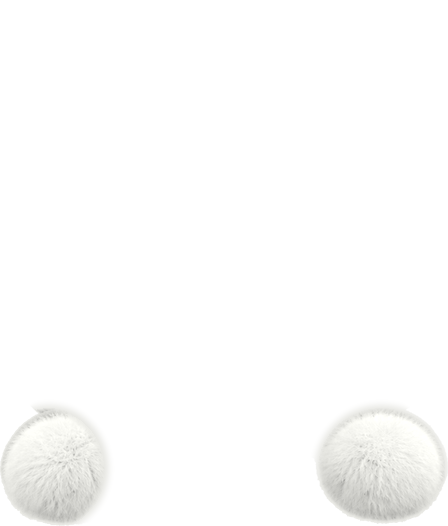
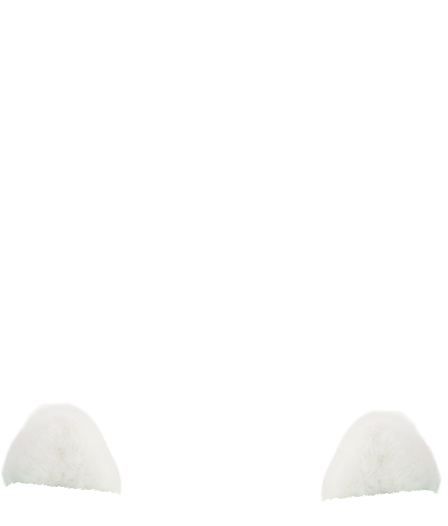
Девочка во «Сне»: её собственные белые лапки, свет как у головы
Лапы у одеяла были лапами мальчика, перекрашенными в её мех, — чужой
рисунок меха и серая кайма. Теперь — её лапка из слоёв, срезом рукава
под край одеяла (левая — зеркальная правая). В браузере Rive рисует
мишку в своём холсте, и ночник красил одни лапы — темнее и желтее
мордочки; лапам и вороту теперь тот же свет, что достаётся голове.

Claude-Session: https://claude.ai/code/session_01EkUPogq5Va4qQG792fJCS6

diff --git a/lib/widgets/bedroom_scene.dart b/lib/widgets/bedroom_scene.dart
@@ -2,6 +2,7 @@ import 'dart:math' as math;
 import 'dart:typed_data';
 import 'dart:ui' as ui;
 
+import 'package:flutter/foundation.dart' show kIsWeb;
 import 'package:flutter/material.dart';
 
 import '../bear/bear_rig_spec.dart';
@@ -50,7 +51,8 @@ class BedroomScene extends StatefulWidget {
 
   /// Герой (КП 2.4). Девочка лежит, как мальчик (заказчик 14.10: «делай
   /// лапки девочки… у одеяла»): тело рига спрятано, под подбородком — ворот
-  /// её кофточки, у подбородка — лапы в её мех (`tool/rive/girl_bed.py`).
+  /// её кофточки, у подбородка — её собственные лапки
+  /// (`tool/rive/girl_bed.py`).
   final BearSkin skin;
 
   /// Уложили спать: мишка засыпает и спит, глаза закрыты. Заказчик 22.09:
@@ -169,9 +171,10 @@ class BedroomScene extends StatefulWidget {
   /// Середина воротника (доли кадра) — по ней он поднимается с одеялом.
   static const Offset collarAt = Offset(474 / 941, 913 / 1672);
 
-  /// Девочка: ворот её кофточки между лапами и круглые лапы в её мех — в
-  /// той же рамке [bear], на тех же местах, что у мальчика. Цвет — как у
-  /// слоёв рига, свет спальни — [night].
+  /// Девочка: ворот её кофточки между лапами и её собственные лапки (из
+  /// слоёв, срезом рукава под одеяло) — в той же рамке [bear], на тех же
+  /// местах, что у мальчика. Цвет — как у слоёв рига, свет — тот же, что
+  /// у её головы.
   static const String _girlCollarAsset = 'assets/rooms/bedroom/girl_collar.png';
   static const String _girlPawsAsset = 'assets/rooms/bedroom/girl_paws.png';
 
@@ -331,9 +334,20 @@ class _BedroomSceneState extends State<BedroomScene>
     );
   }
 
+  /// Ворот и лапы девочки — из её слоёв, того же цвета, что голова рига, и
+  /// свет им — ровно тот, что достаётся голове. В браузере Rive рисует
+  /// мишку в своём холсте поверх страницы (`HtmlElementView` в
+  /// `rive_native`), фильтры Flutter до него не доходят — голова там без
+  /// [BedroomScene.night]; на телефоне (текстура) — с ним. Под ночником
+  /// поверх нефильтрованной головы лапы выходили темнее и желтее мордочки
+  /// (заказчик 14.10: «она белая, а лапы… серые»).
+  static Widget _likeHead(Widget child) => kIsWeb
+      ? child
+      : ColorFiltered(colorFilter: BedroomScene.night, child: child);
+
   /// Воротник поднимается с грудью — на столько же, на сколько одеяло у
   /// подбородка. Цвет мальчика уже подогнан под ночник — без фильтра; ворот
-  /// девочки — под [BedroomScene.night], как её голова.
+  /// девочки — в свете её головы ([_likeHead]).
   Widget _collarLayer(double h, {bool girl = false}) {
     return AnimatedBuilder(
       animation: _breath,
@@ -349,12 +363,8 @@ class _BedroomSceneState extends State<BedroomScene>
         child: child,
       ),
       child: girl
-          ? ColorFiltered(
-              colorFilter: BedroomScene.night,
-              child: Image.asset(
-                BedroomScene._girlCollarAsset,
-                fit: BoxFit.fill,
-              ),
+          ? _likeHead(
+              Image.asset(BedroomScene._girlCollarAsset, fit: BoxFit.fill),
             )
           : Image.asset(BedroomScene._collarAsset, fit: BoxFit.fill),
     );
@@ -362,33 +372,32 @@ class _BedroomSceneState extends State<BedroomScene>
 
   /// Лапы прежнего мишка: правая отодвинута от лица, обе поднимаются с
   /// краем одеяла — ровно на столько, на сколько горб одеяла у них. У
-  /// девочки — те же лапы в её мех, под свет спальни, как её голова.
+  /// девочки — её собственные лапки, в свете её головы ([_likeHead]).
   Widget _pawsLayer(double h, {bool girl = false}) {
     final image = girl ? _girlPaws : _paws;
     if (image == null) return const SizedBox.shrink();
-    return ColorFiltered(
-      colorFilter: girl ? BedroomScene.night : BedroomScene.pawTone,
-      child: AnimatedBuilder(
-        animation: _breath,
-        builder: (context, _) {
-          final lift =
-              BedroomScene.chestRise * _rise * BedroomScene.blanket.height * h;
-          final raise = BedroomScene.pawRaise * h;
-          return CustomPaint(
-            painter: _BedPaws(
-              image: image,
-              liftLeft:
-                  raise +
-                  lift * BedroomScene.blanketBump(BedroomScene.pawLeftAt),
-              liftRight:
-                  raise +
-                  lift * BedroomScene.blanketBump(BedroomScene.pawRightAt),
-              shiftRight: BedroomScene.pawRightShift / BedroomScene.bear.width,
-            ),
-          );
-        },
-      ),
+    final paws = AnimatedBuilder(
+      animation: _breath,
+      builder: (context, _) {
+        final lift =
+            BedroomScene.chestRise * _rise * BedroomScene.blanket.height * h;
+        final raise = BedroomScene.pawRaise * h;
+        return CustomPaint(
+          painter: _BedPaws(
+            image: image,
+            liftLeft:
+                raise + lift * BedroomScene.blanketBump(BedroomScene.pawLeftAt),
+            liftRight:
+                raise +
+                lift * BedroomScene.blanketBump(BedroomScene.pawRightAt),
+            shiftRight: BedroomScene.pawRightShift / BedroomScene.bear.width,
+          ),
+        );
+      },
     );
+    return girl
+        ? _likeHead(paws)
+        : ColorFiltered(colorFilter: BedroomScene.pawTone, child: paws);
   }
 
   /// Свет ночника: еле заметно колышется, как живой огонёк.

diff --git a/tool/rive/girl_bed.py b/tool/rive/girl_bed.py
@@ -14,12 +14,19 @@
   ворот между лапами, к лапам мягко сходит на нет, снизу — до края одеяла
   с запасом. Рукава и плечи не берутся: над одеялом они торчали, и
   девочка казалась сидящей.
-- `girl_paws.png` — круглые пушистые лапы прежнего мишки, те же, что у
-  мальчика (`bear_paws.png`), в её мех: яркость меха сохраняется, цвет —
-  медиана её щёк и лба. Её
-  собственные лапы на фото смотрят вниз и срезаны рукавом — перевёрнутые,
-  они торчали над одеялом треугольниками.
+- `girl_paws.png` — её собственные лапки (заказчик 14.10: «лапы… как
+  будто бы не её, а от пацана… она белая, а лапы… серые»; до этого были
+  лапы мальчика, перекрашенные в её мех, — чужой рисунок меха и серая
+  кайма). Лапка — слой руки минус то, что закрывают рукав и кофточка, без
+  кромки подрисовки у среза. На фото лапки смотрят вниз и срезаны рукавом,
+  и кончиком вверх над одеялом торчал «клин»; поэтому лапка повёрнута
+  срезом рукава вниз, вдоль края одеяла, и срез уходит под одеяло — над
+  ним только её круглый пушистый край. Обе — её правая лапка (левая
+  зеркально): левая на фото срезана наискось и торчала скошенным
+  холмиком. Места и ширина — как у лап мальчика (`bear_paws.png`), цвет —
+  её слоёв без перекраски, свет — тот же, что у головы.
 """
+import math
 import os
 import sys
 
@@ -66,38 +73,79 @@ def collar(size):
     return out * keep[..., None]
 
 
-def fur():
-    """Мех девочки — медиана щёк и лба (без глаз, носа и банта)."""
-    h = np.asarray(Image.open(os.path.join(LAYERS, 'head.png')).convert('RGBA')).astype(np.float64)
-    ys, xs = np.mgrid[0:h.shape[0], 0:h.shape[1]]
-    m = (h[..., 3] > 250) & (np.abs(xs - 680) < 230) & (ys > 640) & (ys < 1040)
-    rgb = h[..., :3][m]
-    y = rgb @ [0.299, 0.587, 0.114]
-    keep = (y > np.percentile(y, 30)) & (y < np.percentile(y, 90))
-    return np.median(rgb[keep], axis=0)
+# Лапки — в картинке той же рамки, что `bear_paws.png`: левая в левой
+# половине, правая — в правой (приложение сдвигает её на `pawRightShift`).
+PAW_X = {'left': 62, 'right': 381}             # середины лап, px картинки
+PAW_W = {'left': 120, 'right': 120}            # ширина лап — как у лап мальчика
+PAW_TILT = {'left': 0.1, 'right': -0.1}        # срез вдоль края одеяла, рад
+PAW_SHIFT = {'left': 0, 'right': 14 * UP}      # BedroomScene.pawRightShift — 14 px кадра
+PAW_RAISE = 6 * UP                             # BedroomScene.pawRaise — 6 px кадра
+PAW_HIDE = 7                                   # срез рукава под краем одеяла, px картинки
+PAW_TRIM = 5                                   # кромка подрисовки у среза, px слоя
 
 
-def paws():
-    """Лапы прежнего мишки в её мех: яркость своя, цвет — её. Кромка у
-    этих лап голубовато-серая (≈8 % темнее меха) — на белом мехе это серое
-    кольцо, поэтому к краю яркость сходит к средней, а полупрозрачная кайма
-    не светлее меха."""
-    p = np.asarray(Image.open(os.path.join(DIR, 'bear_paws.png')).convert('RGBA')).astype(np.float64)
-    a = p[..., 3]
-    y = p[..., :3] @ [0.299, 0.587, 0.114]
-    k = y / np.median(y[a > 200])
-    rim = np.clip((8 - ndimage.distance_transform_edt(a > 200)) / 8, 0, 1)
-    k = k * (1 - rim) + rim
-    k = np.where(a < 230, np.minimum(k, 1.0), k)
-    rgb = np.clip(fur()[None, None] * np.clip(k, 0, 1.6)[..., None], 0, 255)
-    # только сами лапы: голубой уголок над левой (край прежнего капюшона)
-    # срезается
-    core = ndimage.binary_opening(a > 40, iterations=4)
-    lab, n = ndimage.label(core)
-    sizes = np.bincount(lab.ravel())[1:]
-    two = np.isin(lab, np.argsort(sizes)[-2:] + 1)
-    keep = ndimage.gaussian_filter(ndimage.binary_dilation(two, iterations=4).astype(np.float64), 1.5)
-    return np.dstack([rgb, a * np.clip(keep, 0, 1)])
+def layer(name):
+    return np.asarray(Image.open(os.path.join(LAYERS, name)).convert('RGBA')).astype(np.float64)
+
+
+def own_paw(side):
+    """Её лапка из слоёв: рука минус то, что закрывают рукав и кофточка,
+    без светло-зелёной кромки подрисовки у среза рукава. → (rgb, альфа,
+    точки среза, точки лапки) в кадре слоёв.
+
+    Обе лапки — её правая, левая — зеркально: левая на фото срезана рукавом
+    наискось, и над одеялом торчала скошенным холмиком с острым краем."""
+    arm = layer('arm_right.png')
+    cover = np.clip(layer('sleeve_right.png')[..., 3] + layer('shirt.png')[..., 3], 0, 255) / 255
+    if side == 'left':
+        arm, cover = arm[:, ::-1], cover[:, ::-1]
+    a = arm[..., 3] * (1 - cover) * (1 - ndimage.binary_dilation(cover > 0.25, iterations=PAW_TRIM))
+    core = ndimage.binary_opening(a > 128, iterations=3)
+    lab, _ = ndimage.label(core)
+    core = lab == np.argmax(np.bincount(lab.ravel())[1:]) + 1
+    keep = ndimage.gaussian_filter(ndimage.binary_dilation(core, iterations=3).astype(np.float64), 1.0)
+    a = a * np.clip(keep, 0, 1)
+    ring = ndimage.binary_dilation(core, iterations=PAW_TRIM + 3) & ~core
+    ys, xs = np.nonzero(ring & (cover > 0.5))
+    cut = np.stack([xs, ys], 1).astype(np.float64)
+    ys, xs = np.nonzero(core)
+    return arm[..., :3], a, cut, np.stack([xs, ys], 1).astype(np.float64)
+
+
+def blanket_edge(x, side):
+    """Край одеяла над лапой — в координатах картинки лап, с подъёмом и
+    сдвигом лап в приложении."""
+    room_x = BX + (x + PAW_SHIFT[side]) / UP
+    return (np.interp(room_x, *zip(*BLANKET)) - BY) * UP + PAW_RAISE
+
+
+def paw(side, size):
+    """Её лапка срезом рукава вниз: срез ложится вдоль края одеяла и уходит
+    под него на PAW_HIDE, над одеялом — круглый пушистый край лапки."""
+    rgb, a, cut, pts = own_paw(side)
+    c = cut.mean(0)
+    e = np.linalg.svd(cut - c)[2][0]               # вдоль среза
+    n = np.array([-e[1], e[0]])
+    if n @ (pts.mean(0) - c) < 0:
+        n = -n                                     # от среза к кончику
+    t = PAW_TILT[side]
+    up = np.array([math.sin(t), -math.cos(t)])
+    right = np.array([math.cos(t), math.sin(t)])
+    if (e[0] * n[1] - e[1] * n[0]) * (right[0] * up[1] - right[1] * up[0]) < 0:
+        e = -e                                     # поворот, не зеркало
+    s = PAW_W[side] / np.ptp((pts - c) @ e)
+
+    def out(p):
+        return np.outer((p - c) @ e, right) * s + np.outer((p - c) @ n, up) * s
+    o, oc = out(pts), out(cut)
+    sx = PAW_X[side] - (o[:, 0].min() + o[:, 0].max()) / 2
+    sy = (blanket_edge(oc[:, 0] + sx, side) + PAW_HIDE - oc[:, 1]).max()
+    M = (np.outer(e, right) + np.outer(n, up)) / s  # картинка → слой
+    off = c - M @ np.array([sx, sy])
+    coef = (M[0, 0], M[0, 1], off[0], M[1, 0], M[1, 1], off[1])
+    pm = np.dstack([rgb * a[..., None] / 255, a])
+    return np.stack([np.asarray(Image.fromarray(pm[..., k].astype(np.float32), 'F').transform(
+        size, Image.AFFINE, coef, resample=Image.BICUBIC)) for k in range(4)], -1)
 
 
 def to_rgba(pm):
@@ -109,8 +157,9 @@ def to_rgba(pm):
 def main():
     size = Image.open(os.path.join(DIR, 'bear_paws.png')).size
     Image.fromarray(bleed(to_rgba(collar(size))), 'RGBA').save(os.path.join(DIR, 'girl_collar.png'), optimize=True)
-    Image.fromarray(bleed(paws().round().astype(np.uint8)), 'RGBA').save(os.path.join(DIR, 'girl_paws.png'), optimize=True)
-    print('мех', fur().round(1), '→ girl_collar.png, girl_paws.png', size)
+    paws = paw('left', size) + paw('right', size)
+    Image.fromarray(bleed(to_rgba(paws)), 'RGBA').save(os.path.join(DIR, 'girl_paws.png'), optimize=True)
+    print('→ girl_collar.png, girl_paws.png', size)
 
 
 if __name__ == '__main__':

diff --git a/docs/rive-girl.md b/docs/rive-girl.md
@@ -227,12 +227,24 @@
   и рукава дышат, лапы лежат.
 - **Спальня**: как у мальчика — тело рига спрятано, под подбородком ворот
   её кофточки между лапами, у подбородка лапы держат край одеяла
-  (`tool/rive/girl_bed.py` → `girl_collar.png`, `girl_paws.png`). Лапы —
-  круглые пушистые лапы прежнего мишки, те же, что у мальчика
-  (`bear_paws.png`), в её мех (её лапы на фото смотрят вниз
-  и срезаны рукавом — перевёрнутые, торчали треугольниками). Свет — как у
-  её головы (`BedroomScene.night`). Плечи кофточки над одеялом больше не
-  торчат — девочка лежит, а не сидит.
+  (`tool/rive/girl_bed.py` → `girl_collar.png`, `girl_paws.png`). Плечи
+  кофточки над одеялом не торчат — девочка лежит, а не сидит.
+  Лапы — **её собственные** (заказчик 14.10: «лапы… как будто бы не её, а
+  от пацана… она белая, а лапы… серые»; до этого стояли лапы мальчика,
+  перекрашенные в её мех, — чужой рисунок меха и серая кайма): её лапка
+  из слоёв без того, что закрывает рукав, повёрнута срезом рукава вниз —
+  срез уходит под край одеяла, над ним круглый пушистый край; обе — её
+  правая лапка, левая зеркально (левая на фото срезана наискось и торчала
+  скошенным холмиком). Свет лапам и вороту — ровно тот, что достаётся её
+  голове: в браузере Rive рисует мишку в своём холсте поверх страницы
+  (`HtmlElementView` в `rive_native`), фильтры Flutter до головы не
+  доходят, и ночник (`BedroomScene.night`) красил одни лапы — они
+  выходили темнее и желтее мордочки. Теперь в браузере лапы и ворот без
+  фильтра, на телефоне (текстура) — с ним, как голова. Замер в
+  приложении: лапы (229, 228, 224) и (228, 226, 221), лоб (224, 224,
+  217), мех у носика (233, 230, 226).
+  ⚠ На кухне та же причина слабее: тело девочки под `KitchenBear.warm`, а
+  голова в браузере без него — спросить заказчика.
 - **Докачка банта** — как кончики ушей и капюшона мальчика (`_Spring` в
   `rive_bear_trial.dart`): петли `e_bow_lo` / `e_bow_up` отстают от
   резкого движения головы и сами затухают. Толчок поперёк петли, петли
